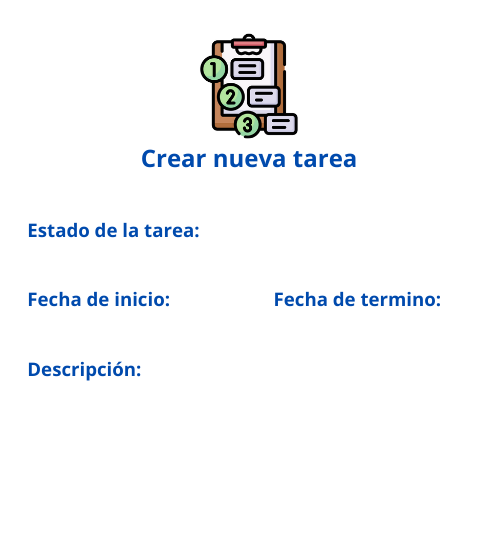
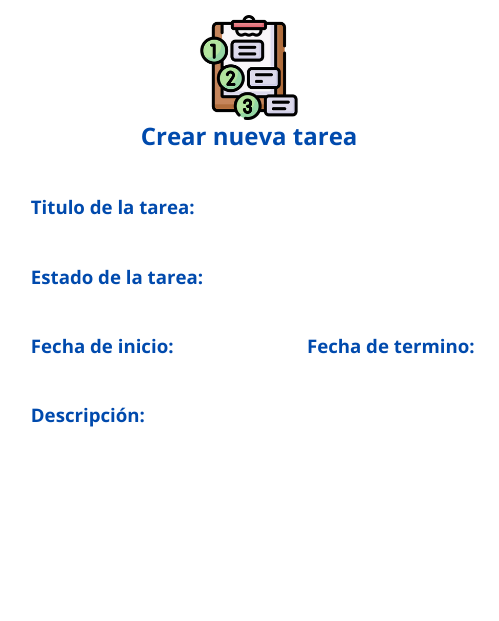
NuevaTarea

diff --git a/src/view/EmployeeProjects.java b/src/view/EmployeeProjects.java
@@ -15,7 +15,7 @@ import javax.swing.event.ListSelectionEvent;
 import javax.swing.table.DefaultTableModel;
 import model.Staff;
 import model.Task;
-
+import view.forms.VtnNuevoProyecto;
 /**
  * Panel principal Seleccion de proyeto y Creacion de nuevo proyecto
  *
@@ -27,11 +27,11 @@ public class EmployeeProjects extends CardJPanel
     private final int idEmployee;
     private String proyectoSeleccionado = "";
     private final List<String> susProyectos;
-    
+
     private JPanel panelInicio;
     private CardLayout cardLayoutInicio;
     private CardLayout cardLayoutFiltrar;
-    
+
     //arreglo para guardar los encabezados de la tabla de tareas
     private final String[] NOMBRE_CAMPOS_TABLA_TAREAS =
     {
@@ -48,7 +48,7 @@ public class EmployeeProjects extends CardJPanel
     private String elementoSeleccionadoTitulo = "";
     private String elementoSeleccionadoNombre = "";
     private String elementoSeleccionadoCorreo = "";
-    
+
     public EmployeeProjects(int idEmployee)
     {
         this.idEmployee = idEmployee;
@@ -87,17 +87,22 @@ public class EmployeeProjects extends CardJPanel
         panelContenedorNorth.add(new JLabel("Seleccione un Proyecto"));
         panelContenedorNorth.add(comboBox);
 
+        btnNuevoProyecto.addActionListener((e) ->
+        {
+            btnNuevoProyectoAddActionListener();
+        });
+
         JTabbedPane tabbedPane = new JTabbedPane();
 
         cardLayoutInicio = new CardLayout();
         panelInicio = new JPanel(cardLayoutInicio);
-        
+
         JPanel panelTareas = new JPanel(new FlowLayout(FlowLayout.LEFT));
         JButton btnAgregarTarea = GenerateComponents.crearBotonHerramineta("Agregar", "agregar_Res2.png");
         JButton btnVerTarea = GenerateComponents.crearBotonHerramineta("Detalles", "expediente_Res2.png");
         JButton btnModificarTarea = GenerateComponents.crearBotonHerramineta("Actualizar", "editar_Res2.png");
         JButton btnEliminarTarea = GenerateComponents.crearBotonHerramineta("Eliminar", "borrar_Res2.png");
-        
+
         btnAgregarTarea.addActionListener((e) ->
         {
             btnAgregarTareaAddActionListener();
@@ -114,13 +119,13 @@ public class EmployeeProjects extends CardJPanel
         {
             btnEliminarTareaaddActionListener();
         });
-        
+
         panelTareas.add(btnAgregarTarea);
         panelTareas.add(btnVerTarea);
         panelTareas.add(btnModificarTarea);
         panelTareas.add(btnEliminarTarea);
-        
-        JPanel panelColaboradores= new JPanel(new FlowLayout(FlowLayout.LEFT));
+
+        JPanel panelColaboradores = new JPanel(new FlowLayout(FlowLayout.LEFT));
         JButton btnAgregarColaborador = GenerateComponents.crearBotonHerramineta("Agregar", "agregar_Res2.png");
         JButton btnVerColaborador = GenerateComponents.crearBotonHerramineta("Detalles", "expediente_Res2.png");
         JButton btnModificarColaborador = GenerateComponents.crearBotonHerramineta("Actualizar", "editar_Res2.png");
@@ -142,12 +147,12 @@ public class EmployeeProjects extends CardJPanel
         {
             btnEliminarColaboradorAddActionListener();
         });
-        
+
         panelColaboradores.add(btnAgregarColaborador);
         panelColaboradores.add(btnVerColaborador);
         panelColaboradores.add(btnModificarColaborador);
         panelColaboradores.add(btnEliminarColaborador);
-        
+
         panelInicio.add(panelTareas, "Tareas");
         panelInicio.add(panelColaboradores, "Colaboradores");
 
@@ -188,19 +193,22 @@ public class EmployeeProjects extends CardJPanel
 
         tabbedPane.addTab("Tareas", panelTareas);
         tabbedPane.addTab("Colaboradores", panelColaboradores);
-        
+
         tabbedPane.addChangeListener((ChangeEvent e) ->
         {
             int index = tabbedPane.getSelectedIndex();
-            switch (index) {
-                case 0 -> cardLayoutInicio.first(panelInicio);
-                case 1 -> cardLayoutInicio.last(panelInicio);
+            switch (index)
+            {
+                case 0 ->
+                    cardLayoutInicio.first(panelInicio);
+                case 1 ->
+                    cardLayoutInicio.last(panelInicio);
                 default ->
                 {
                 }
             }
         });
-        
+
         add(tabbedPane, BorderLayout.CENTER);
     }
 
@@ -239,7 +247,7 @@ public class EmployeeProjects extends CardJPanel
         tablaColaboradores = GenerarTablas.configTabla(data, this.NOMBRE_CAMPOS_TABLA_COLABORADORES);
         addSelection();
     }
-    
+
     /**
      * Permite extraer datos de una fila en columnas especificas
      */
@@ -265,7 +273,7 @@ public class EmployeeProjects extends CardJPanel
                 }
             }
         });
-        
+
         tablaColaboradores.getSelectionModel().addListSelectionListener((ListSelectionEvent event) ->
         {
             if (!event.getValueIsAdjusting())
@@ -360,4 +368,10 @@ public class EmployeeProjects extends CardJPanel
     {
         throw new UnsupportedOperationException("Not supported yet."); // Generated from nbfs://nbhost/SystemFileSystem/Templates/Classes/Code/GeneratedMethodBody
     }
+    
+    private void btnNuevoProyectoAddActionListener()
+    {
+        new VtnNuevoProyecto().setVisible(true);
+    }
+
 }

diff --git a/src/view/forms/VtnNuevaTarea.java b/src/view/forms/VtnNuevaTarea.java
@@ -33,19 +33,26 @@ public class VtnNuevaTarea extends javax.swing.JFrame
         fechaTermino = new com.toedter.calendar.JDateChooser();
         fechaInicio = new com.toedter.calendar.JDateChooser();
         descripcion = new javax.swing.JTextField();
+        titulo = new javax.swing.JTextField();
         btnRegistrar = new javax.swing.JButton();
         btnCancelar = new javax.swing.JButton();
         jLabel2 = new javax.swing.JLabel();
 
-        setDefaultCloseOperation(javax.swing.WindowConstants.EXIT_ON_CLOSE);
+        setDefaultCloseOperation(javax.swing.WindowConstants.DISPOSE_ON_CLOSE);
 
         jPanel2.setLayout(new org.netbeans.lib.awtextra.AbsoluteLayout());
 
+        comboBoxEstado.setFont(new java.awt.Font("Segoe UI", 0, 14)); // NOI18N
         comboBoxEstado.setModel(new javax.swing.DefaultComboBoxModel<>(new String[] { "Item 1", "Item 2", "Item 3", "Item 4" }));
-        jPanel2.add(comboBoxEstado, new org.netbeans.lib.awtextra.AbsoluteConstraints(30, 250, 430, 30));
-        jPanel2.add(fechaTermino, new org.netbeans.lib.awtextra.AbsoluteConstraints(280, 320, 160, 30));
-        jPanel2.add(fechaInicio, new org.netbeans.lib.awtextra.AbsoluteConstraints(30, 320, 160, 30));
-        jPanel2.add(descripcion, new org.netbeans.lib.awtextra.AbsoluteConstraints(30, 390, 430, 100));
+        jPanel2.add(comboBoxEstado, new org.netbeans.lib.awtextra.AbsoluteConstraints(30, 300, 430, 30));
+        jPanel2.add(fechaTermino, new org.netbeans.lib.awtextra.AbsoluteConstraints(280, 370, 160, 30));
+        jPanel2.add(fechaInicio, new org.netbeans.lib.awtextra.AbsoluteConstraints(30, 370, 160, 30));
+
+        descripcion.setFont(new java.awt.Font("Segoe UI", 0, 14)); // NOI18N
+        jPanel2.add(descripcion, new org.netbeans.lib.awtextra.AbsoluteConstraints(30, 440, 430, 100));
+
+        titulo.setFont(new java.awt.Font("Segoe UI", 0, 14)); // NOI18N
+        jPanel2.add(titulo, new org.netbeans.lib.awtextra.AbsoluteConstraints(30, 230, 430, 30));
 
         btnRegistrar.setBackground(new java.awt.Color(102, 255, 102));
         btnRegistrar.setFont(new java.awt.Font("Segoe UI", 1, 18)); // NOI18N
@@ -57,12 +64,12 @@ public class VtnNuevaTarea extends javax.swing.JFrame
                 btnRegistrarActionPerformed(evt);
             }
         });
-        jPanel2.add(btnRegistrar, new org.netbeans.lib.awtextra.AbsoluteConstraints(90, 500, 110, 30));
+        jPanel2.add(btnRegistrar, new org.netbeans.lib.awtextra.AbsoluteConstraints(90, 550, 110, 30));
 
         btnCancelar.setBackground(new java.awt.Color(255, 51, 51));
         btnCancelar.setFont(new java.awt.Font("Segoe UI", 1, 18)); // NOI18N
         btnCancelar.setText("Cancelar");
-        jPanel2.add(btnCancelar, new org.netbeans.lib.awtextra.AbsoluteConstraints(270, 500, 110, 30));
+        jPanel2.add(btnCancelar, new org.netbeans.lib.awtextra.AbsoluteConstraints(270, 550, 110, 30));
 
         jLabel2.setIcon(new javax.swing.ImageIcon(getClass().getResource("/assets/NuevaTarea.png"))); // NOI18N
         jPanel2.add(jLabel2, new org.netbeans.lib.awtextra.AbsoluteConstraints(0, 0, -1, -1));
@@ -75,7 +82,9 @@ public class VtnNuevaTarea extends javax.swing.JFrame
         );
         layout.setVerticalGroup(
             layout.createParallelGroup(javax.swing.GroupLayout.Alignment.LEADING)
-            .addComponent(jPanel2, javax.swing.GroupLayout.PREFERRED_SIZE, javax.swing.GroupLayout.DEFAULT_SIZE, javax.swing.GroupLayout.PREFERRED_SIZE)
+            .addGroup(layout.createSequentialGroup()
+                .addComponent(jPanel2, javax.swing.GroupLayout.PREFERRED_SIZE, javax.swing.GroupLayout.DEFAULT_SIZE, javax.swing.GroupLayout.PREFERRED_SIZE)
+                .addContainerGap(javax.swing.GroupLayout.DEFAULT_SIZE, Short.MAX_VALUE))
         );
 
         pack();
@@ -89,7 +98,6 @@ public class VtnNuevaTarea extends javax.swing.JFrame
         if (fechaIni.before(fechaActual))
         {
             Mensajes.error(this, "Fecha de inicio incorrecta");
-
         } else
         {
             if (fechaFin.before(fechaIni))
@@ -156,5 +164,6 @@ public class VtnNuevaTarea extends javax.swing.JFrame
     private com.toedter.calendar.JDateChooser fechaTermino;
     private javax.swing.JLabel jLabel2;
     private javax.swing.JPanel jPanel2;
+    private javax.swing.JTextField titulo;
     // End of variables declaration//GEN-END:variables
 }

diff --git a/src/view/forms/VtnRol.java b/src/view/forms/VtnRol.java
@@ -2,6 +2,8 @@ package view.forms;
 
 import cjb.ci.CtrlInterfaz;
 import cjb.ci.Mensajes;
+import dao.RoleDAO;
+import model.Role;
 import utils.Validations;
 
 /**
@@ -35,7 +37,7 @@ public class VtnRol extends javax.swing.JFrame
         btnGuardar = new javax.swing.JButton();
         jLabel1 = new javax.swing.JLabel();
 
-        setDefaultCloseOperation(javax.swing.WindowConstants.EXIT_ON_CLOSE);
+        setDefaultCloseOperation(javax.swing.WindowConstants.DISPOSE_ON_CLOSE);
 
         jPanel1.setLayout(new org.netbeans.lib.awtextra.AbsoluteLayout());
 
@@ -96,7 +98,19 @@ public class VtnRol extends javax.swing.JFrame
 
     private void btnGuardarActionPerformed(java.awt.event.ActionEvent evt)//GEN-FIRST:event_btnGuardarActionPerformed
     {//GEN-HEADEREND:event_btnGuardarActionPerformed
-        Mensajes.exito(this, "Rol asignado");
+        String nomS = nombreRol.getText();
+        
+//        boolean exito = dao.RoleDAO.insertRole(nomS);
+//        
+//        if (exito)
+//        {
+//            Mensajes.exito(this, "Rol asignado");
+//        } else
+//        {
+//            Mensajes.error(this, "El rol que intenta agregar ya existe");
+//        }
+//        
+//        
         btnCancelarActionPerformed(evt);
     }//GEN-LAST:event_btnGuardarActionPerformed
 

diff --git a/src/view/forms/VtnNuevoProyecto.java b/src/view/forms/VtnNuevoProyecto.java
@@ -39,7 +39,7 @@ public class VtnNuevoProyecto extends javax.swing.JFrame
         btnCancelar = new javax.swing.JButton();
         jLabel1 = new javax.swing.JLabel();
 
-        setDefaultCloseOperation(javax.swing.WindowConstants.EXIT_ON_CLOSE);
+        setDefaultCloseOperation(javax.swing.WindowConstants.DISPOSE_ON_CLOSE);
 
         jPanel1.setLayout(new org.netbeans.lib.awtextra.AbsoluteLayout());
         jPanel1.add(descripcion, new org.netbeans.lib.awtextra.AbsoluteConstraints(30, 470, 440, 100));

diff --git a/src/view/EmployeeTasks.java b/src/view/EmployeeTasks.java
@@ -24,7 +24,7 @@ import javax.swing.event.ListSelectionEvent;
 import javax.swing.table.DefaultTableModel;
 import model.Task;
 import view.forms.VtnModificarPersonalAdmin;
-import view.forms.VtnNuevoPersonal;
+import view.forms.VtnNuevaTarea;
 
 /**
  *
@@ -273,7 +273,7 @@ public class EmployeeTasks extends CardJPanel
      */
     private void btnAgregarAddActionListener()
     {
-        new VtnNuevoPersonal().setVisible(true);
+        new VtnNuevaTarea().setVisible(true);
     }
 
     /**

diff --git a/src/utils/ConnectionBD.java b/src/utils/ConnectionBD.java
@@ -12,7 +12,7 @@ public class ConnectionBD
 {
     // Ruta de la base de datos Access
     // Ajusta la ruta...
-    private static final String PATH = "D:/Do Cumentos/Megan/Gestor_Proyectos_BD_A/src/BD/Enterprise_Database.accdb";
+    private static final String PATH = "src/BD/Enterprise_Database.accdb";
     private static final String URL = "jdbc:ucanaccess://" + PATH;
 
     public static Connection getConnection()

diff --git a/src/view/forms/VtnModificarPerfil.java b/src/view/forms/VtnModificarPerfil.java
@@ -38,7 +38,7 @@ public class VtnModificarPerfil extends javax.swing.JFrame
         btnGuardar = new javax.swing.JButton();
         jLabel1 = new javax.swing.JLabel();
 
-        setDefaultCloseOperation(javax.swing.WindowConstants.EXIT_ON_CLOSE);
+        setDefaultCloseOperation(javax.swing.WindowConstants.DISPOSE_ON_CLOSE);
 
         jPanel1.setLayout(new org.netbeans.lib.awtextra.AbsoluteLayout());
 

diff --git a/src/view/forms/VtnDepartamento.java b/src/view/forms/VtnDepartamento.java
@@ -36,7 +36,7 @@ public class VtnDepartamento extends javax.swing.JFrame
         btnRegistrar = new javax.swing.JButton();
         jLabel1 = new javax.swing.JLabel();
 
-        setDefaultCloseOperation(javax.swing.WindowConstants.EXIT_ON_CLOSE);
+        setDefaultCloseOperation(javax.swing.WindowConstants.DISPOSE_ON_CLOSE);
 
         jPanel1.setLayout(new org.netbeans.lib.awtextra.AbsoluteLayout());
 

diff --git a/src/view/forms/VtnRecursos.java b/src/view/forms/VtnRecursos.java
@@ -36,7 +36,7 @@ public class VtnRecursos extends javax.swing.JFrame
         btnRegistrar = new javax.swing.JButton();
         jLabel1 = new javax.swing.JLabel();
 
-        setDefaultCloseOperation(javax.swing.WindowConstants.EXIT_ON_CLOSE);
+        setDefaultCloseOperation(javax.swing.WindowConstants.DISPOSE_ON_CLOSE);
 
         jPanel1.setLayout(new org.netbeans.lib.awtextra.AbsoluteLayout());
 
